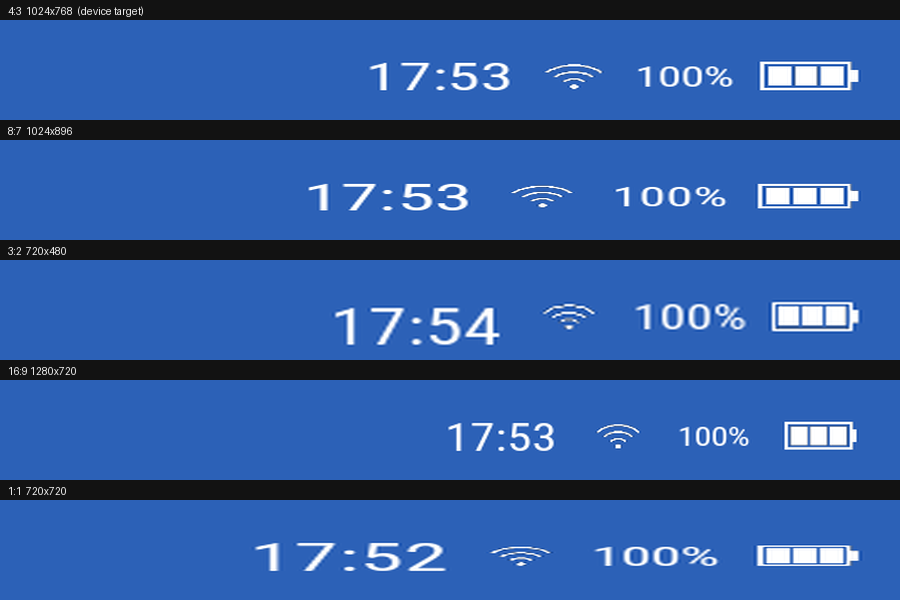
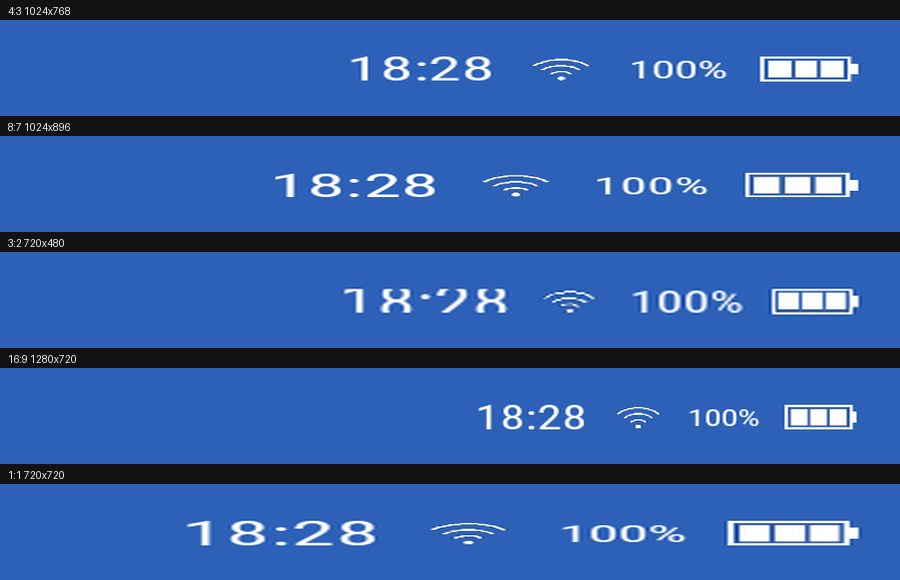
docs: the status cluster is a self-packing stackpanel (#4)
Style guide 6.5 rewritten: the cluster's geometry is now the panel's, and
the five ES behaviours that constrain it (no origin property on
stackpanel, deliberately over-wide panel, height of exactly one glyph
ink-height because performLayout top-aligns images, maxSize over size,
and text centring by TextComponent default rather than by an explicit
verticalAlignment). Also records why ES's own clock is transparent
instead of hidden.

The reserved-regions bullet no longer names per-ratio variables that no
longer exist; the occupied span is simply the panel's 0.48-0.98.

Screenshot evidence regenerated against the panel - the previous battery
states image was rendered from the static layout and its caption claimed
the clock does not move, which is exactly what changed. Added the
before/after collapse table for the three Show Battery Status values.

diff --git a/docs/psp-xmb-style-guidelines.md b/docs/psp-xmb-style-guidelines.md
@@ -353,12 +353,10 @@ tables.)
 Reserved regions (do not place new content here):
 
 - **Top 0.10 vertical strip** — owned by the status bar, which is a
-  four-element cluster, not just the clock (§6.5). The battery glyph
-  pins the right edge at `0.98`; the clock, network glyph and battery
-  percentage sit to its left, and **their x positions differ per aspect
-  ratio** (`${statusClockX}` / `${statusNetX}` / `${statusPctX}`). The
-  cluster reaches furthest left at 1:1, where the clock box starts at
-  `0.650`. Treat everything right of `x=0.65` in the top strip as
+  four-element `<stackpanel>`, not just the clock (§6.5). The panel is
+  declared from `x=0.48` to the `0.98` margin and packs its contents
+  right-to-left, so how far left the cluster actually reaches depends on
+  which elements ES is showing. Treat the whole `0.48–0.98` span as
   occupied; left of that is technically free but conventionally empty —
   PSP doesn't put anything there either.
 - **Bottom 0.06 vertical strip** — owned by the helpsystem
@@ -1074,37 +1072,71 @@ gamecount-show subset variant in `_inc/gamecount-show.xml`.
 ### 6.5 Top-right status cluster
 
 Four elements in one right-anchored cluster, defined in
-`_inc/status-bar.xml`'s `<view name="screen">`. Left to right:
+`_inc/status-bar.xml`'s `<view name="screen">`. Right to left, which is
+also the child order in the XML:
 
-| Element | Pos | Size | Notes |
-|:---|:---:|:---:|:---|
-| Clock | `(0.68, 0.03)` | `(0.14, 0.06)` | `<fontSize>0.042</fontSize>` (largest text in UI), `alignment=right` — right edge at `0.68 + 0.14 = 0.82` |
-| `networkIcon` | `(0.863, 0.0612)` | `maxSize (0.033, 0.030)` | `origin (1, 0.5)`. Theme's own wifi glyph, `art/ui/network.png` |
-| `batteryText` | `(0.876, 0.0612)` | `fontSize 0.030` | `origin (0, 0.5)`. **pos.x is the LEFT edge** — see below |
-| `batteryIcon` | `(0.98, 0.0612)` | `maxSize (0.046, 0.030)` | `origin (1, 0.5)`. Holds the 0.98 right margin |
+| Element | Notes |
+|:---|:---|
+| `batteryIcon` | Battery glyph. `maxSize (0.125, 1)` — panel-relative |
+| `batteryText` | `NN%`, `fontSize 0.030` |
+| `networkIcon` | Theme's own wifi glyph, `art/ui/network.png`, `maxSize (0.09, 1)` |
+| `clock` | `fontSize 0.042`, the largest text in the UI |
 
-**The three left-hand x positions are per-ratio variables.** A
-`<fontSize>` is a fraction of screen HEIGHT while an x position is a
-fraction of screen WIDTH, so the percentage's width *in width-fractions*
-grows as the screen gets squarer — `"100%"` is `0.058` of the width at
-1:1 against `0.045` at 4:3. At the 4:3 literals it runs into the glyph
-at both 1:1 and 8:7. `${statusClockX}` / `${statusNetX}` /
-`${statusPctX}` carry the per-ratio values, overridden in
-`_inc/aspect-*.xml`; the glyph stays at `0.98` everywhere. Same class of
-defect as the v0.11 cardMetadata overflow, and the same fix.
+**The cluster is a `<stackpanel>`, not four positioned elements**, at
+`pos (0.48, 0.0462)`, `size (0.50, 0.030)`, `orientation horizontal`,
+`reverse true`. Its contents are *optional* and ES owns their
+visibility: *Show Battery Status* hides the percentage (ICON) or both
+battery elements (NO), *Show Clock* hides the clock, and the network
+glyph goes when there is no connection. Fixed positions reserve space
+for elements that may not exist — v1.0's first attempt left a 77 px hole
+where the percentage had been, and ~120 px of dead space against the
+right margin at NO. No ordering avoids this; only reflow does.
+`StackPanelComponent::performLayout()` skips invisible children, and its
+`update()` re-runs the layout when the visible children's total size
+changes, so the cluster re-packs itself the moment ES hides one.
 
-**This is why the cluster is not in `_inc/common.xml`.** ES resolves
-`${variables}` at *element-parse* time, and `common.xml` is included
-long before `aspect-*.xml` — a screen view declared there reads the 4:3
-defaults and no per-ratio override can ever reach it. `theme.xml`
-includes `status-bar.xml` after the aspect files, the same ordering rule
-the gamelist style views follow.
+**Five things about the panel are ES's behaviour, not choices:**
+
+- **`<stackpanel>` has no `origin` property** (`ThemeData.cpp:72`).
+  Setting one parses to nothing, `pos` stays the top-left, and the panel
+  lands off the right of the screen — rendering *absolutely nothing*,
+  with no warning. `pos.x + size.x = 0.98` is what anchors the cluster.
+- **The panel is deliberately much wider than its contents.** Unused
+  width extends left and costs nothing, because reverse packing starts
+  at the right edge. That is what lets one set of literals serve all
+  five aspect ratios: a `<fontSize>` is a fraction of screen HEIGHT
+  while positions are fractions of WIDTH, so `"100%"` is `0.058` of the
+  width at 1:1 against `0.045` at 4:3, and any hand-placed layout has to
+  be re-tuned per ratio to stop it colliding. If contents ever *do*
+  exceed the panel, `performLayout` clamps the overflowing child rather
+  than overflowing — a too-narrow panel silently truncates the clock.
+- **Height is `0.030` — one glyph ink-height, not the strip's `0.06`.**
+  `performLayout` top-aligns image children whatever their origin: it
+  sets y to `pos.y - h*origin.y + panelH*origin.y` and the origin then
+  shifts the draw back by `h*origin.y`, so the `h` terms cancel and every
+  value lands at the panel's top. With the panel exactly as tall as the
+  glyphs, top-aligned *is* centred. `pos.y` is `0.0612 - 0.030/2`.
+- **Image children need `maxSize`, never `size`.** `performLayout` only
+  preserves aspect for images whose target is max; with `<size>` ES
+  stretches the art to the panel height.
+- **Text children centre themselves.** `TextComponent` defaults to
+  `ALIGN_CENTER` vertically (`TextComponent.cpp:13`), which is what puts
+  a `0.042` clock on the line of a `0.030`-tall panel. An explicit
+  `verticalAlignment=center` is pixel-identical — it is redundant, not
+  load-bearing.
 
 **`0.0612` is the clock's measured ink centre** at 1024x768 (its glyph
-rows are 36..58 px), not the centre of the clock's `0.06`-tall box. Every
-element in the cluster is anchored to it with `origin y = 0.5`. Guessing
-at this instead of measuring it is what made "the glyph never lines up
-with the clock" unresolvable in v0.10.
+rows are 36..58 px), not the centre of a `0.06`-tall box. The panel is
+centred on it. Guessing at this instead of measuring it is what made
+"the glyph never lines up with the clock" unresolvable in v0.10.
+
+**ES's own Window-owned clock is transparent, not hidden.** The panel's
+`<clock>` child is the one you see. `<text name="clock">` must still be
+declared — with no screen/clock element Window skins `mClock` from the
+helpsystem and parks it *bottom*-right (`Window.cpp:1274-1300`) — and it
+cannot be hidden with `<visible>`, because `ClockComponent::update()`
+calls `setVisible(DrawClock)` every frame and undoes it. Alpha `00` is
+the one property nothing overwrites.
 
 **Three things about this cluster are ES's behaviour, not choices:**
 

diff --git a/docs/screenshots/v0.13-battery-widget/README.md b/docs/screenshots/v0.13-battery-widget/README.md
@@ -47,38 +47,35 @@ The four charge states plus no-battery, via `render.sh --battery`:
 47% (2 segments), 4% (empty — ES switches at `level > 5`), 80% charging
 (bolt), 100% (full, and the widest text the percentage can be), and a
 device with no battery at all, where both battery elements auto-hide and
-the clock and network glyph do not move.
+the cluster shortens to clock + network glyph.
 
 ## `harness-aspect-ratios.png`
 
 All five design surfaces at `100%`, the widest string the percentage can be.
-This is what the first pass got wrong: x positions are fractions of screen
-*width* but a `<fontSize>` is a fraction of screen *height*, so `"100%"` is
-0.058 of the width at 1:1 against 0.045 at 4:3, and the 4:3 literals ran it
-into the battery glyph at 8:7 (6 px clearance) and 1:1 (3 px — actually
-touching). Fixed with per-ratio `${statusClockX}` / `${statusNetX}` /
-`${statusPctX}` variables.
+The first pass hand-placed each element, which cannot hold across ratios: x
+positions are fractions of screen *width* but a `<fontSize>` is a fraction of
+screen *height*, so `"100%"` is 0.058 of the width at 1:1 against 0.045 at
+4:3. The 4:3 literals ran it into the battery glyph at 8:7 (6 px clearance)
+and 1:1 (3 px — touching).
 
-The measured percent-to-glyph clearance, after:
+The second pass fixed that with per-ratio variables. Those are now **gone**:
+the cluster is a `<stackpanel>` that packs itself from the right margin, so
+one set of literals serves every surface and there is nothing to re-tune.
+Measured after: four separated groups at every ratio, right edge 0.979,
+inter-element gaps 11–24 px, all ink centres within 1 px of 0.0605.
 
-| Ratio | Surface | clearance |
-|:---|:---|---:|
-| 4:3 | 1024x768 | 0.0137 (14 px) |
-| 8:7 | 1024x896 | 0.0166 (17 px) |
-| 3:2 | 720x480 | 0.0139 (10 px) |
-| 16:9 | 1280x720 | 0.0180 (23 px) |
-| 1:1 | 720x720 | 0.0208 (15 px) |
+## `harness-showbattery-collapse.png`
 
-The rendered `"100%"` ink widths behind `PCT_INK_W` in
-`scripts/tests/test-battery.sh` were measured from these same renders. They
-are measured rather than computed because PIL's metrics for this font
-disagree with ES's rasteriser by -12% to +23% across these sizes — the first
-attempt at 3:2 was tuned from a computed width and left only 4 px.
+The defect this widget was re-worked for, found in manual review on the
+hammer. ES owns the visibility of three of the four elements, so a fixed
+layout leaves a hole wherever the missing one was:
 
-## `harness-showbattery-values.png`
-
-Visibility is ES's setting, not a theme subset: *UI Settings > Show
-Battery Status*. ICON AND TEXT (the ES default), ICON, and NO.
+| Setting | Before | After |
+|:---|:---|:---|
+| ICON AND TEXT | correct | correct |
+| ICON | 77 px hole between wifi and the glyph | cluster shortens, stays flush right |
+| NO | ~120 px of dead space to the right margin | cluster shortens, stays flush right |
+| no battery in the device | same as NO | same as NO |
 
 ## Not refreshed here
 

diff --git a/README.md b/README.md
@@ -144,7 +144,7 @@ at all (except for the Box Art Grid interaction above).
 
 The wave animation is always on with no opt-out. No per-system or per-device overrides — the theme intentionally ships minimal.
 
-The status bar runs clock, network glyph, battery percentage and battery glyph as one right-anchored cluster. **The battery elements are controlled by EmulationStation's own setting, not by the theme** — *UI Settings > Show Battery Status*: NO hides both, ICON shows the glyph alone, ICON AND TEXT (the ES default) shows the glyph and the percentage. A device with no battery shows neither, automatically, and the clock and network glyph do not move. The network glyph is EmulationStation's binary connected/not-connected indicator, redrawn in the theme's style; a PSP-style 4-bar signal strength is not available to themes at all.
+The status bar runs clock, network glyph, battery percentage and battery glyph as one right-anchored cluster that **re-packs itself around whatever is showing**. **The battery elements are controlled by EmulationStation's own setting, not by the theme** — *UI Settings > Show Battery Status*: NO hides both, ICON shows the glyph alone, ICON AND TEXT (the ES default) shows the glyph and the percentage. A device with no battery shows neither, automatically. In every case the cluster simply gets shorter and stays flush to the right margin — no gaps are left behind, and the same is true when *Show Clock* is off or there is no network connection. The network glyph is EmulationStation's binary connected/not-connected indicator, redrawn in the theme's style; a PSP-style 4-bar signal strength is not available to themes at all.
 
 The selected-icon halo remains pulled: restored and re-tuned during v0.11 (PR #28, 0.28 footprint / 0.6 opacity), it was disabled again in PR #32's on-device tuning as still too bright — re-enable is tracked in issue #34.
 
